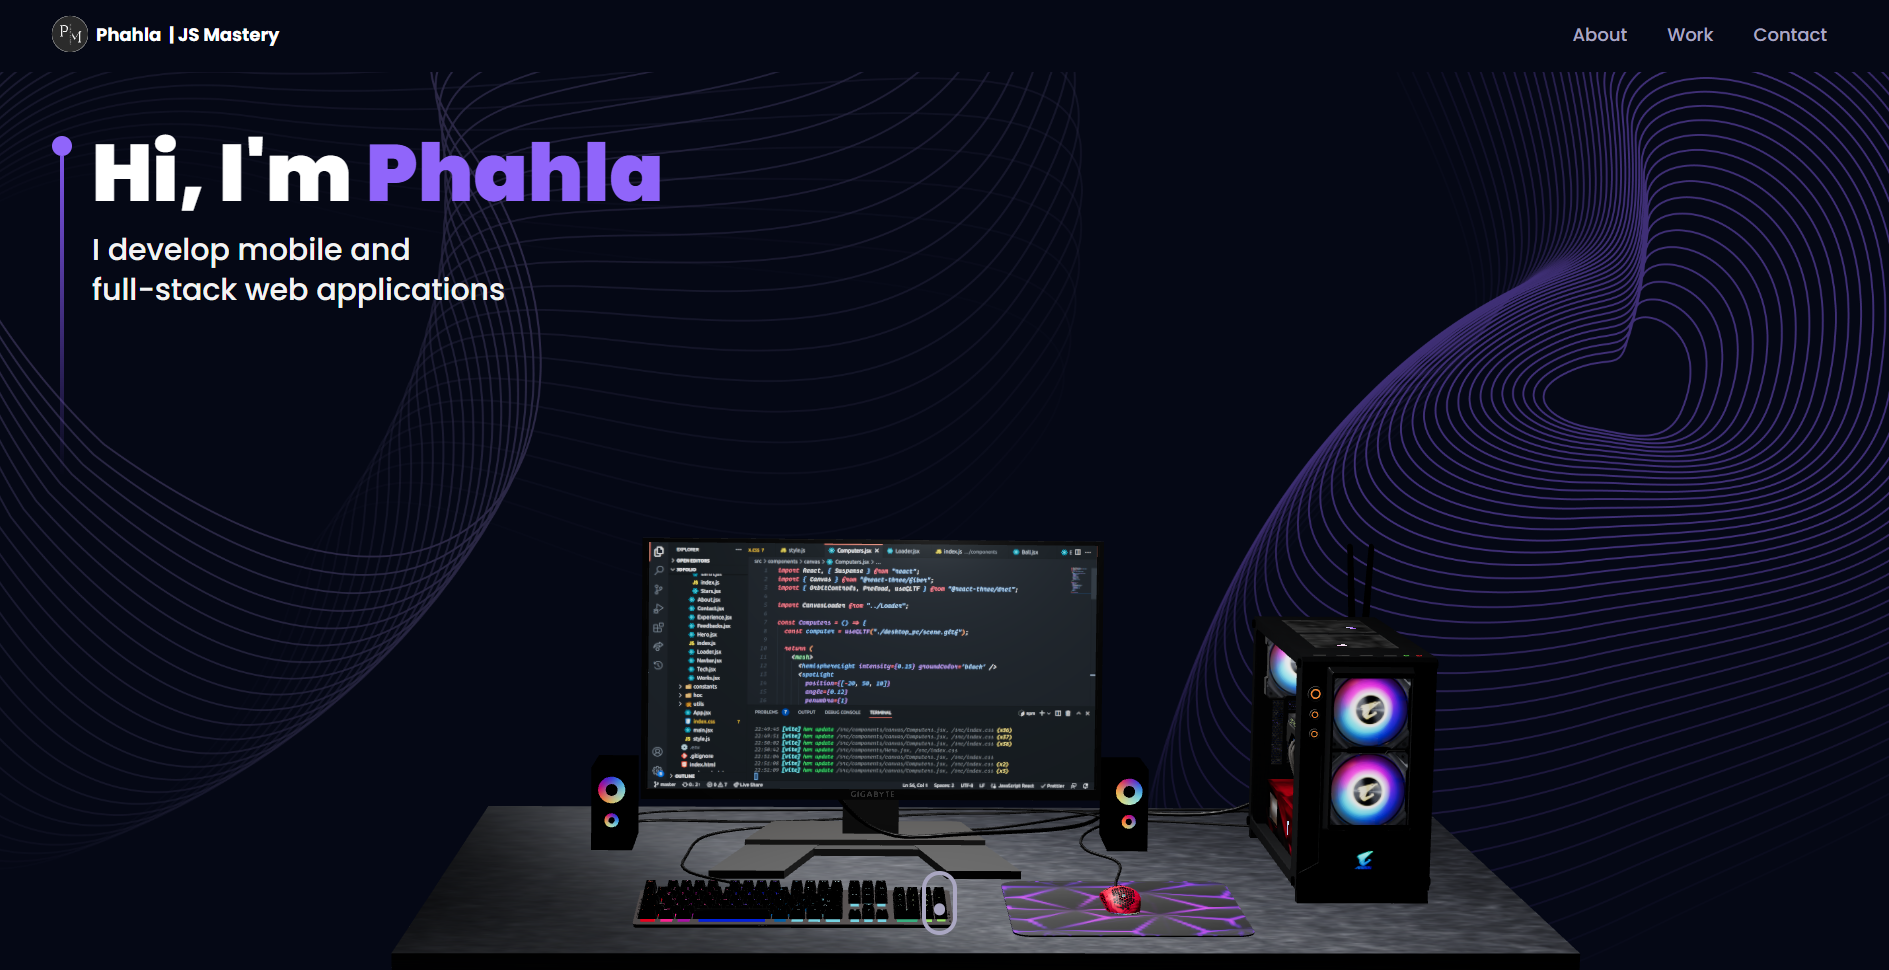
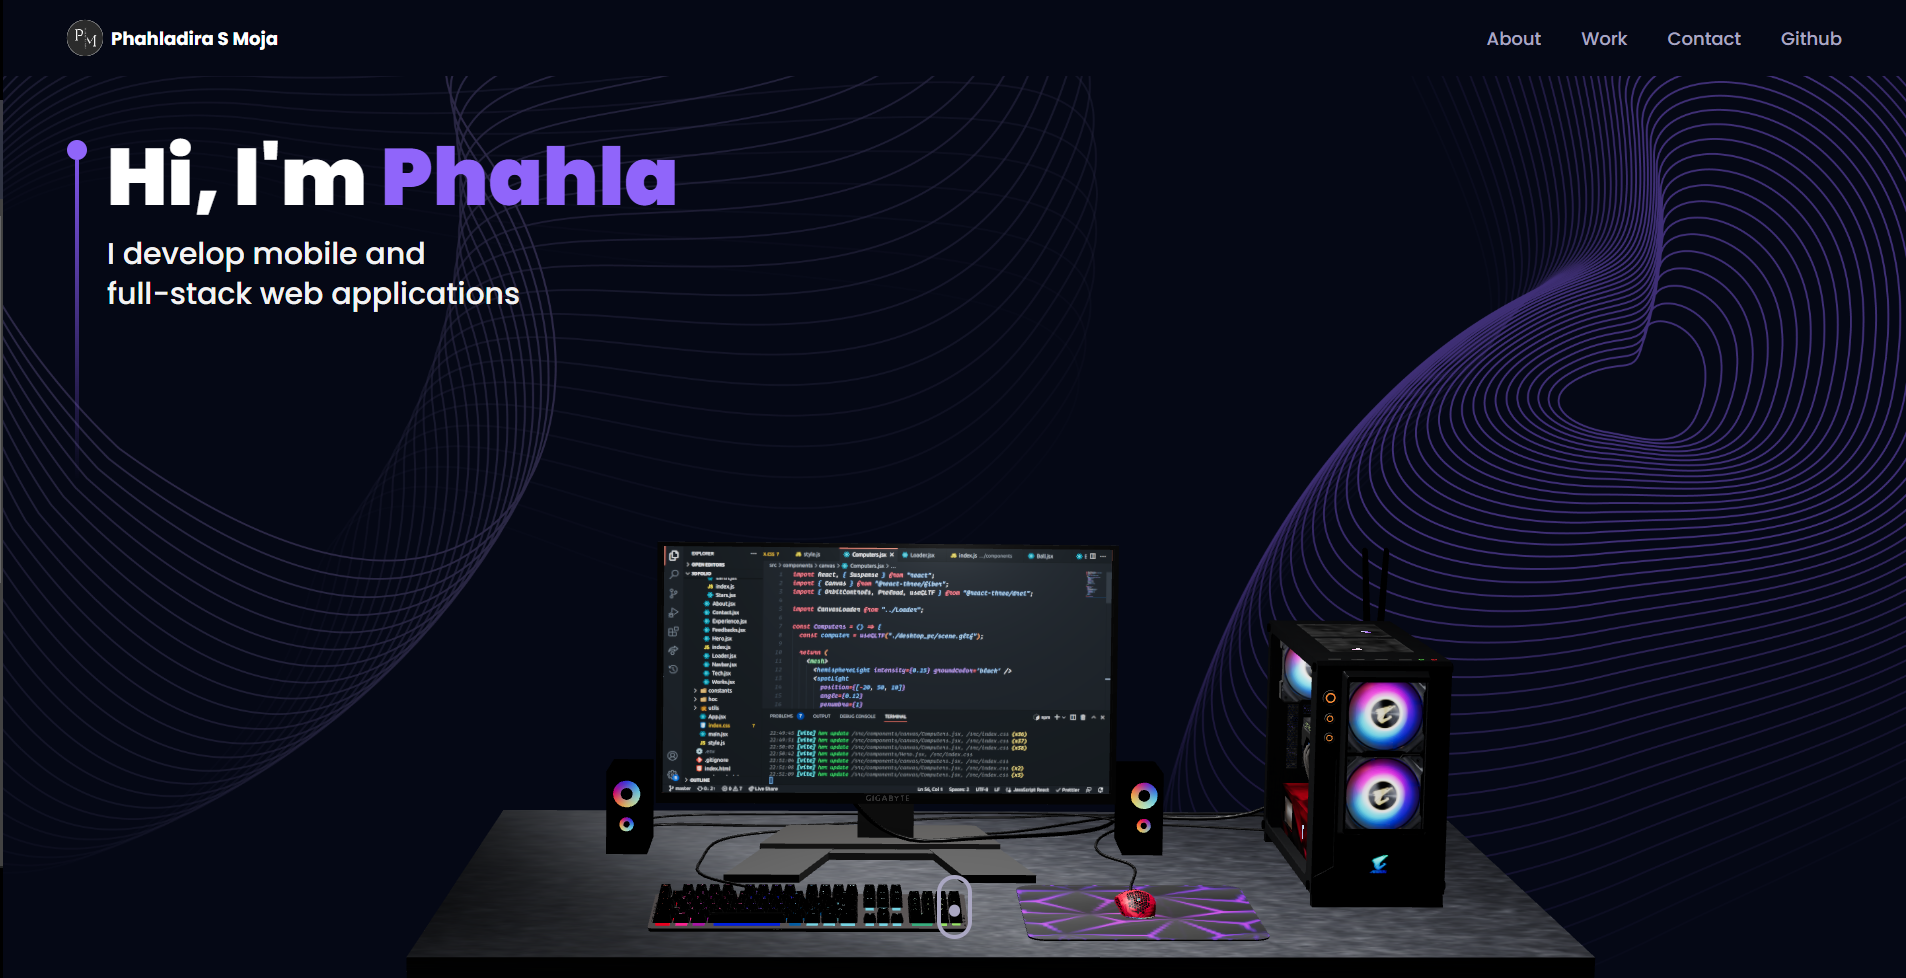
Update portfolio data

diff --git a/src/components/Navbar.jsx b/src/components/Navbar.jsx
@@ -28,8 +28,8 @@ const Navbar = () => {
             className="w-9 h-9 object-contain rounded-full"
           />
           <p className="text-white text-[18px] font-bold flex cursor-pointer">
-            Phahla &nbsp;
-            <span className="sm:block hidden">| JS Mastery</span>
+            Phahladira&nbsp;
+            <span className="sm:block hidden">S Moja</span>
           </p>
         </Link>
         <ul className="list-none hidden sm:flex flex-row gap-10">
